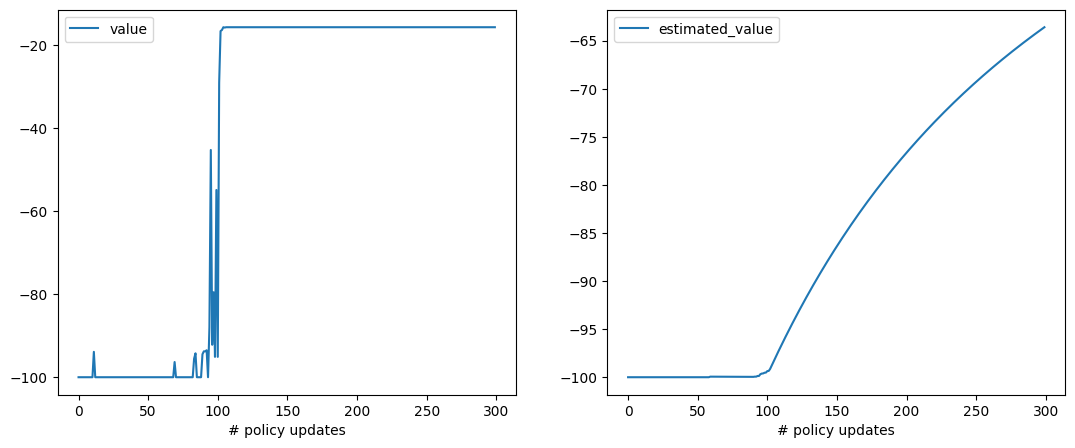
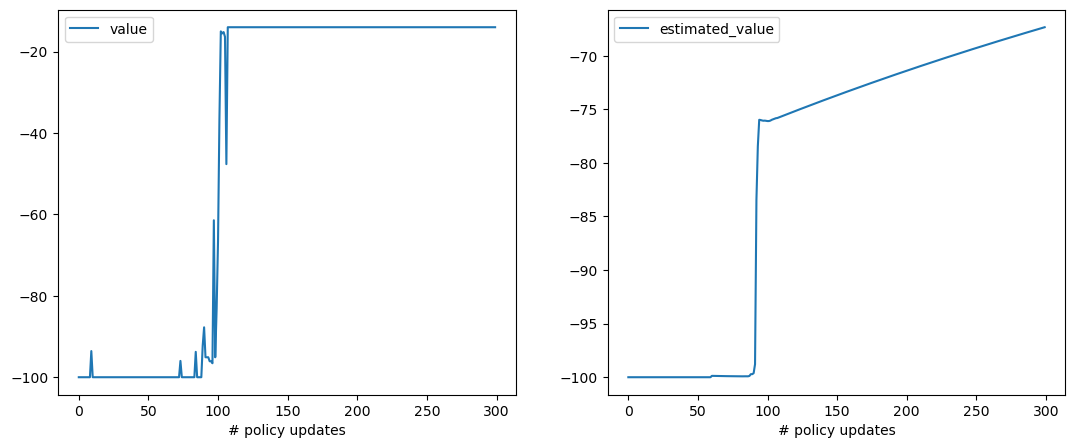
modified

diff --git a/python_and_ml/rl_np/envs.py b/python_and_ml/rl_np/envs.py
@@ -104,9 +104,10 @@ class CustomizedCliffWalking(gym.envs.toy_text.CliffWalkingEnv):
 class EasyCliffWalking(CustomizedCliffWalking):
      def step(self, a):
           s, r, terminated, truncated, info_env = super().step(a)
-          r += 1
           if terminated:
-               r += 2
+                r += 2
+          if r < -50:
+                terminated = True
           return s, r, terminated, truncated, info_env
 
 class CustomizedFrozenLake(gym.envs.toy_text.FrozenLakeEnv):
